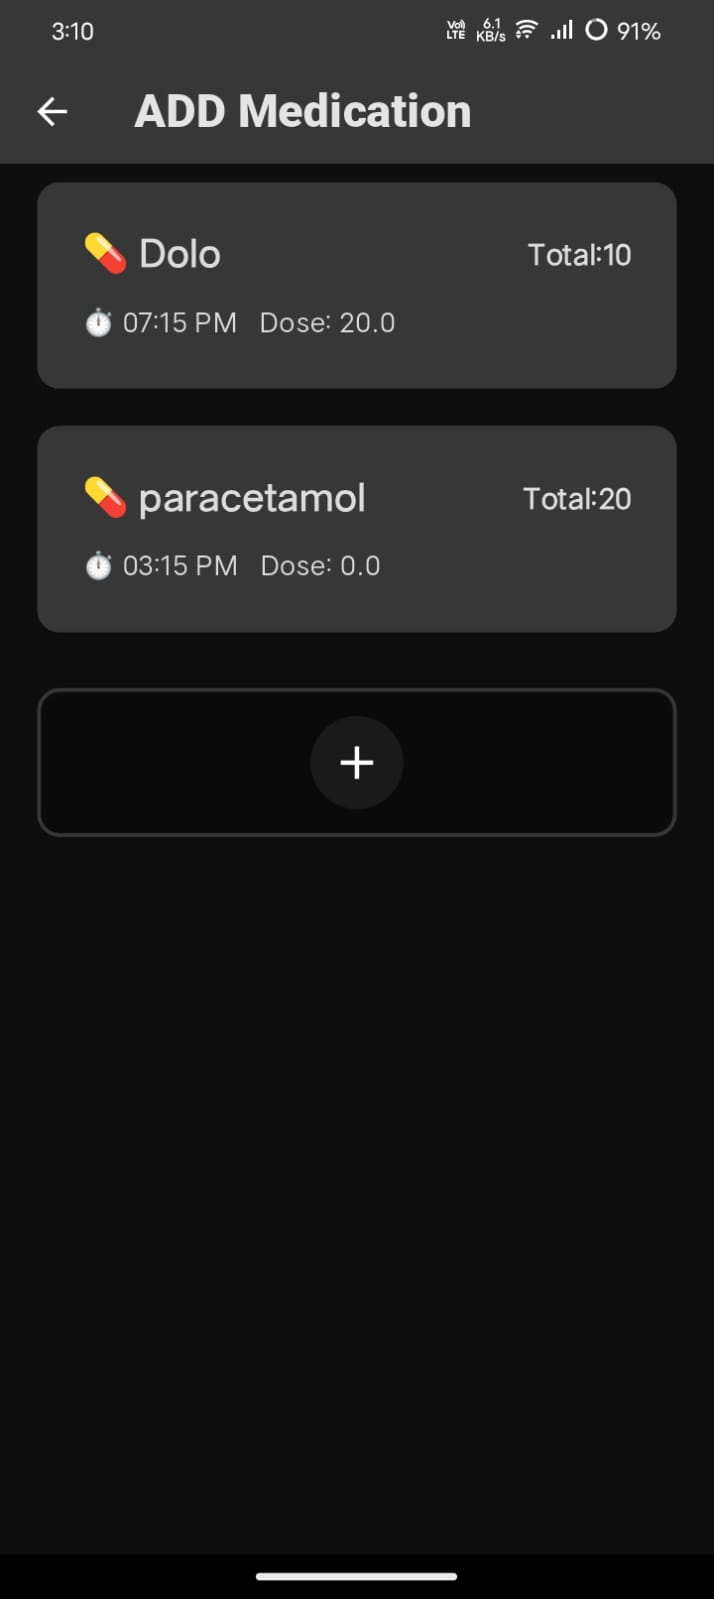
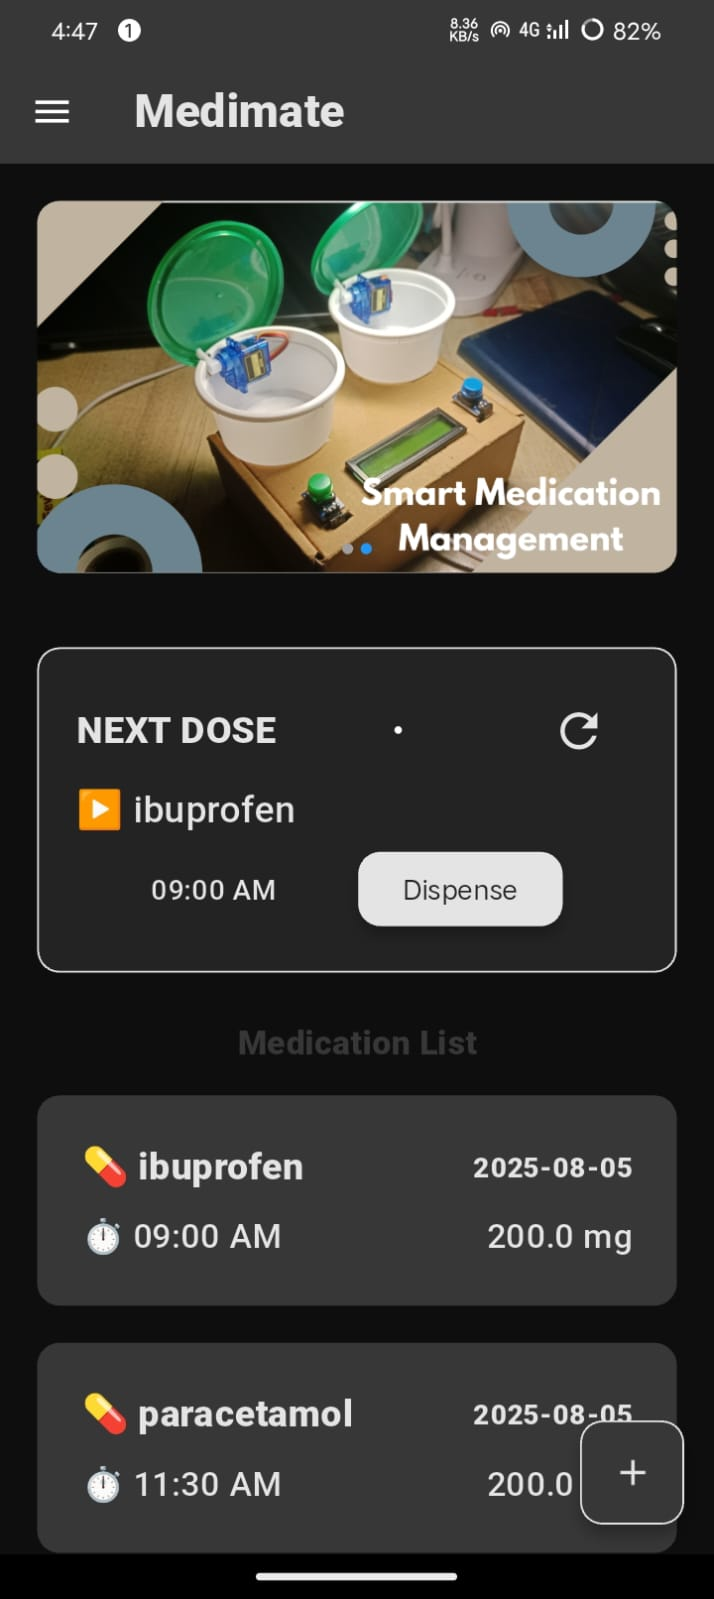
updated code visuals

diff --git a/lib/pages/home.dart b/lib/pages/home.dart
@@ -69,8 +69,6 @@ class _HomePageState extends State<HomePage> with SingleTickerProviderStateMixin
       duration: const Duration(seconds: 1),
     );
     db.copyFromDoseToCheck();
-    Mediname_dose();
-    Mediname_dose();
     _loadData().then((_) {
       updateCalenderdaylist();
     });
@@ -109,6 +107,11 @@ class _HomePageState extends State<HomePage> with SingleTickerProviderStateMixin
 
 
   Future<void> _loadData() async {
+
+    await dbdose.loadData();
+    await db.loadData();// Load data into dbdose
+    setState(() {});
+
     if (userId != null) {
       db.medicationCheckList = await loadMedications(userId!);
       final sortedMedication= await findNextDose(db.medicationCheckList);
@@ -116,11 +119,9 @@ class _HomePageState extends State<HomePage> with SingleTickerProviderStateMixin
       final notTaken = await findNotTaken(sortedMedication);
       setState(() {
         nextMedicine = notTaken;
+        _isLoading = false;
       });
     }
-    setState(() {
-      _isLoading = false;
-    });
   }
 
   Future<void> saveMedication(String userId, MedicationChecked medication) async {
@@ -235,7 +236,6 @@ class _HomePageState extends State<HomePage> with SingleTickerProviderStateMixin
 
   void checkMedicationReminder(List<Map<String, dynamic>> medications) {
     String currentTime = DateFormat('hh:mm a').format(DateTime.now());
-    //Mediname_dose();
     for (var med in medications) {
       if (med['time'] == currentTime) {
          int len=med['medications'].length;
@@ -321,6 +321,8 @@ class _HomePageState extends State<HomePage> with SingleTickerProviderStateMixin
     return null;
   }
 
+
+
   Future<List<Map<String, dynamic>>> markAsTaken(List<Map<String, dynamic>> sortedMedication) async {
     final currentMedi = await findNotTaken(sortedMedication); // ✅ await the async function
 
@@ -342,13 +344,12 @@ class _HomePageState extends State<HomePage> with SingleTickerProviderStateMixin
       }
     }
 
-
-
     // Optional: persist the updated data
     await db.updateDatabase(); // 🔄 Save updated list to Firestore/Hive/RTDB
-
     return sortedMedication;
   }
+
+
   Future<void> updateCalenderdaylist() async{
     final todayDate = DateFormat('yyyy-MM-dd').format(DateTime.now());
     final targetTime = nextMedicine?['time'] ?? '';
@@ -394,6 +395,8 @@ class _HomePageState extends State<HomePage> with SingleTickerProviderStateMixin
     );
 
     await db.updateDatabase(); // Save into your main database
+    setState(() {});
+
   }
 
 
@@ -554,7 +557,7 @@ class _HomePageState extends State<HomePage> with SingleTickerProviderStateMixin
                             });
 
                             await _loadData();
-                            await db.loadData();
+                            //await db.loadData();
 
                             final todayDate =
                             DateFormat('yyyy-MM-dd').format(DateTime.now());
@@ -575,7 +578,6 @@ class _HomePageState extends State<HomePage> with SingleTickerProviderStateMixin
                                 if (selectedMeds.contains(medi.name) &&
                                     interval.time == targetTime) {
                                   interval.isChecked = true;
-                                  await db.RTDOOR.update({medi.name:true});
 
                                   await updateIsChecked(
                                       userId!, medi.name, i, true);
@@ -587,6 +589,8 @@ class _HomePageState extends State<HomePage> with SingleTickerProviderStateMixin
                                     medicationName: medi.name,
                                     isChecked: true,
                                   );
+                                  await db.RTDOOR.update({medi.name:true});
+
                                 } else {
                                   await updateRTDBCalendar(
                                     userId: userId!,

diff --git a/lib/data/databaseDose.dart b/lib/data/databaseDose.dart
@@ -36,11 +36,6 @@ class MedicationDatabaseDose {
     developer.log("\n✅ Hive dose list initialized\n", name: 'MedicationDoseDB');
   }
 
-  Future<void> doorClose() async{
-    for(MedicationDose med in medicationDoseList){
-     await RTDOOR.update({med.name:false});
-    }
-  }
 
   // Convert dose data to check data and save it
   Future<void> copyFromDoseToCheck() async {
@@ -105,7 +100,7 @@ class MedicationDatabaseDose {
         'quantity': med.quantity,
         'timeIntervals': _timeEntryDoseToMap(med.timeIntervals),
       });
-      await RTDOOR.update({med.name:false});
+      //await RTDOOR.update({med.name:false});
 
       developer.log("✅ RTDB: Dose for '${med.name}' inserted.", name: 'MedicationDoseDB');
     } catch (e) {
@@ -116,7 +111,8 @@ class MedicationDatabaseDose {
   // Save data to RTDB helper method for check data
   Future<void> _saveToRTDBCheck(MedicationChecked med) async {
     try {
-      await RTDOOR.update({med.name:false});
+      //
+      //await RTDOOR.update({med.name:false});
       await RTDBC.child(med.name).set({
         'timeIntervals': _timeEntryCheckToMap(med.timeIntervals),
       });
@@ -129,7 +125,7 @@ class MedicationDatabaseDose {
   // Load all data from local and remote sources
   Future<void> loadData() async {
     // Load dose data from Hive
-    await doorClose();
+    //await doorClose();
     final rawDose = _doseBox.get("MEDIMATE_DOSE");
     if (rawDose is List) {
       try {
